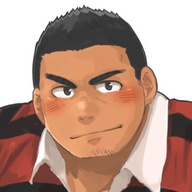
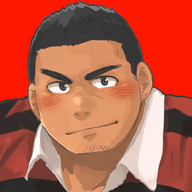
アプリのアイコンを新しい絵にする
送ってもらった new_app-icon.jpg を元画像（assets/app-icon.jpg）に据えて、
アイコン一式を作り直した。

・縦長の絵は中央で切ると髪の先が欠けるので、上を残して切り出すようにした。
・maskable の余白は四隅の平均をやめ、縁でいちばん多い色にした
  （下が服・上が背景の絵で色が濁っていたため）。

Claude-Session: https://claude.ai/code/session_01195bgtMct3ee9GdgorsuaZ

diff --git a/sw.js b/sw.js
@@ -1,5 +1,5 @@
 /* オフライン用のシンプルなキャッシュ（アプリ本体のみ。データは localStorage） */
-var CACHE = 'shimekiri-v52';
+var CACHE = 'shimekiri-v53';
 var ASSETS = [
   './', './index.html', './assets/style.css', './manifest.webmanifest',
   './assets/icon-180.png', './assets/icon-192.png', './assets/icon-512.png',

diff --git a/tools/make-icons.py b/tools/make-icons.py
@@ -6,7 +6,7 @@
   1. 元にしたい画像を assets/app-icon.png（.jpg / .jpeg / .webp でも可）として置く
   2. python3 tools/make-icons.py
 
-正方形でない画像は中央で正方形に切り出す。
+正方形でない画像は正方形に切り出す（縦長のときは上を残す）。
 maskable 用は Android の安全領域に収まるよう少し縮めて、四隅から拾った色で余白を埋める。
 """
 import os
@@ -38,19 +38,32 @@ def find_source():
 
 
 def to_square(im):
+    """正方形に切り出す。
+    縦長の絵は顔が上にあることが多いので、中央ではなく上を残す
+    （中央で切ると髪の先が欠けてしまう）。"""
     w, h = im.size
     s = min(w, h)
-    left, top = (w - s) // 2, (h - s) // 2
+    left = (w - s) // 2
+    top = 0 if h > w else (h - s) // 2
     return im.crop((left, top, left + s, top + s))
 
 
-def corner_color(im):
-    """四隅の平均色。maskable の余白に使う"""
+def edge_color(im):
+    """縁でいちばん多い色。maskable の余白に使う。
+    四隅の平均だと、下が服・上が背景のような絵で濁った色になってしまう。"""
     px = im.convert('RGB')
     w, h = px.size
-    pts = [(0, 0), (w - 1, 0), (0, h - 1), (w - 1, h - 1)]
-    cols = [px.getpixel(p) for p in pts]
-    return tuple(sum(c[i] for c in cols) // len(cols) for i in range(3))
+    pts = []
+    for i in range(24):
+        x = int((w - 1) * i / 23)
+        y = int((h - 1) * i / 23)
+        pts += [(x, 0), (x, h - 1), (0, y), (w - 1, y)]
+    counts = {}
+    for p in pts:
+        c = px.getpixel(p)
+        c = (c[0] // 8 * 8, c[1] // 8 * 8, c[2] // 8 * 8)   # 少しの差は同じ色とみなす
+        counts[c] = counts.get(c, 0) + 1
+    return max(counts.items(), key=lambda kv: kv[1])[0]
 
 
 def main():
@@ -67,7 +80,7 @@ def main():
             os.path.join(ASSETS, name), 'PNG', optimize=True)
         print('  ->', name, size)
 
-    bg = corner_color(im)
+    bg = edge_color(im)
     canvas = Image.new('RGB', (512, 512), bg)
     inner = im.resize((400, 400), Image.LANCZOS)
     canvas.paste(inner, (56, 56))
